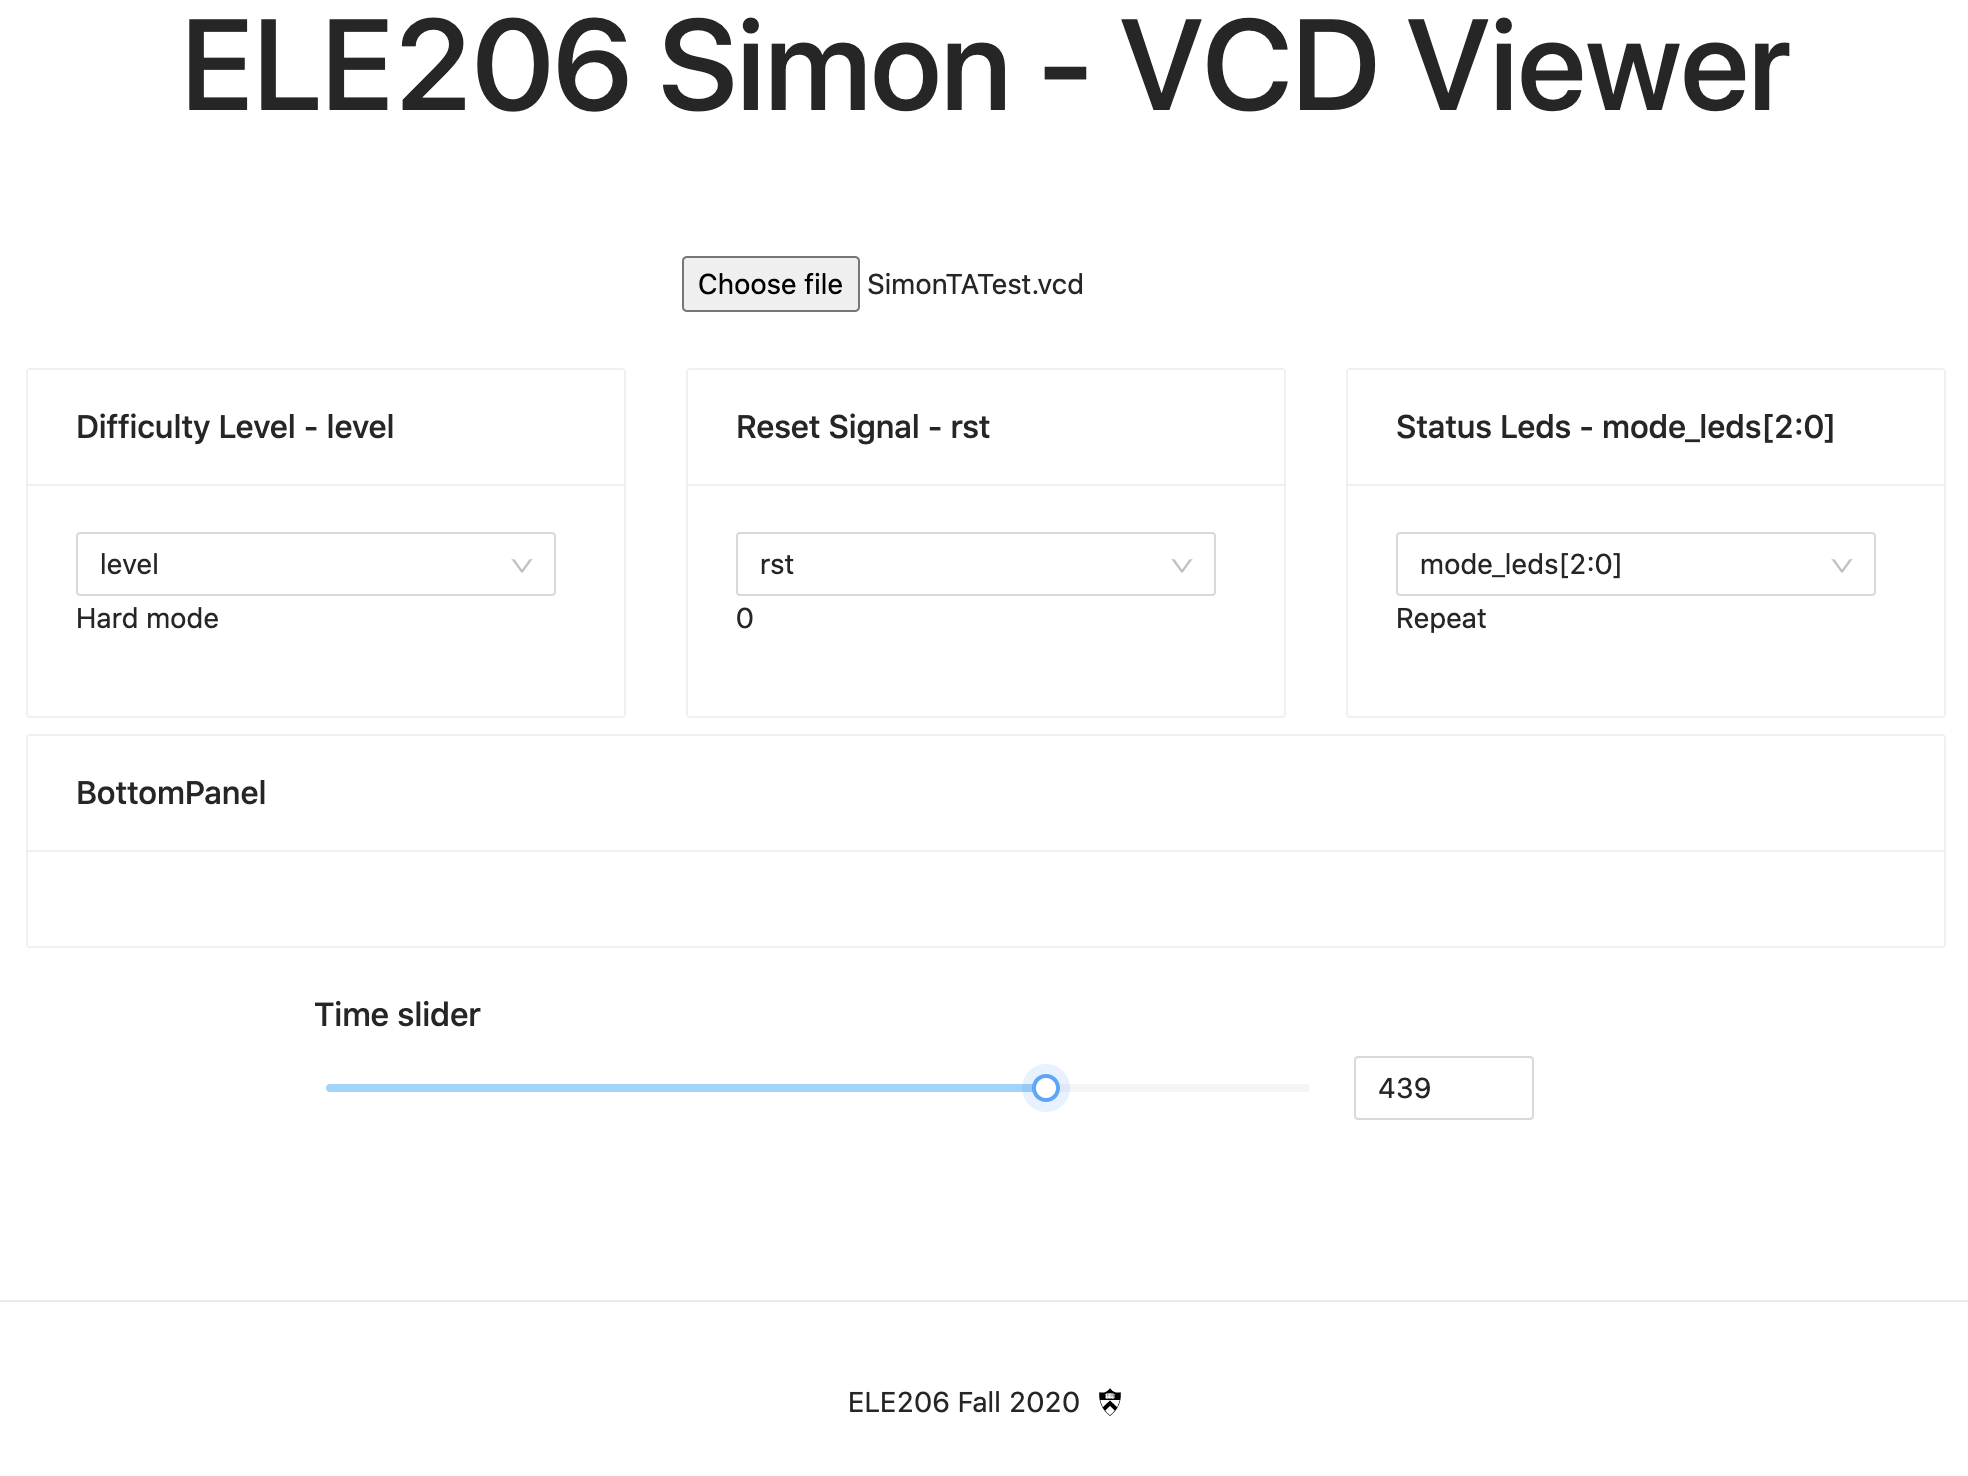
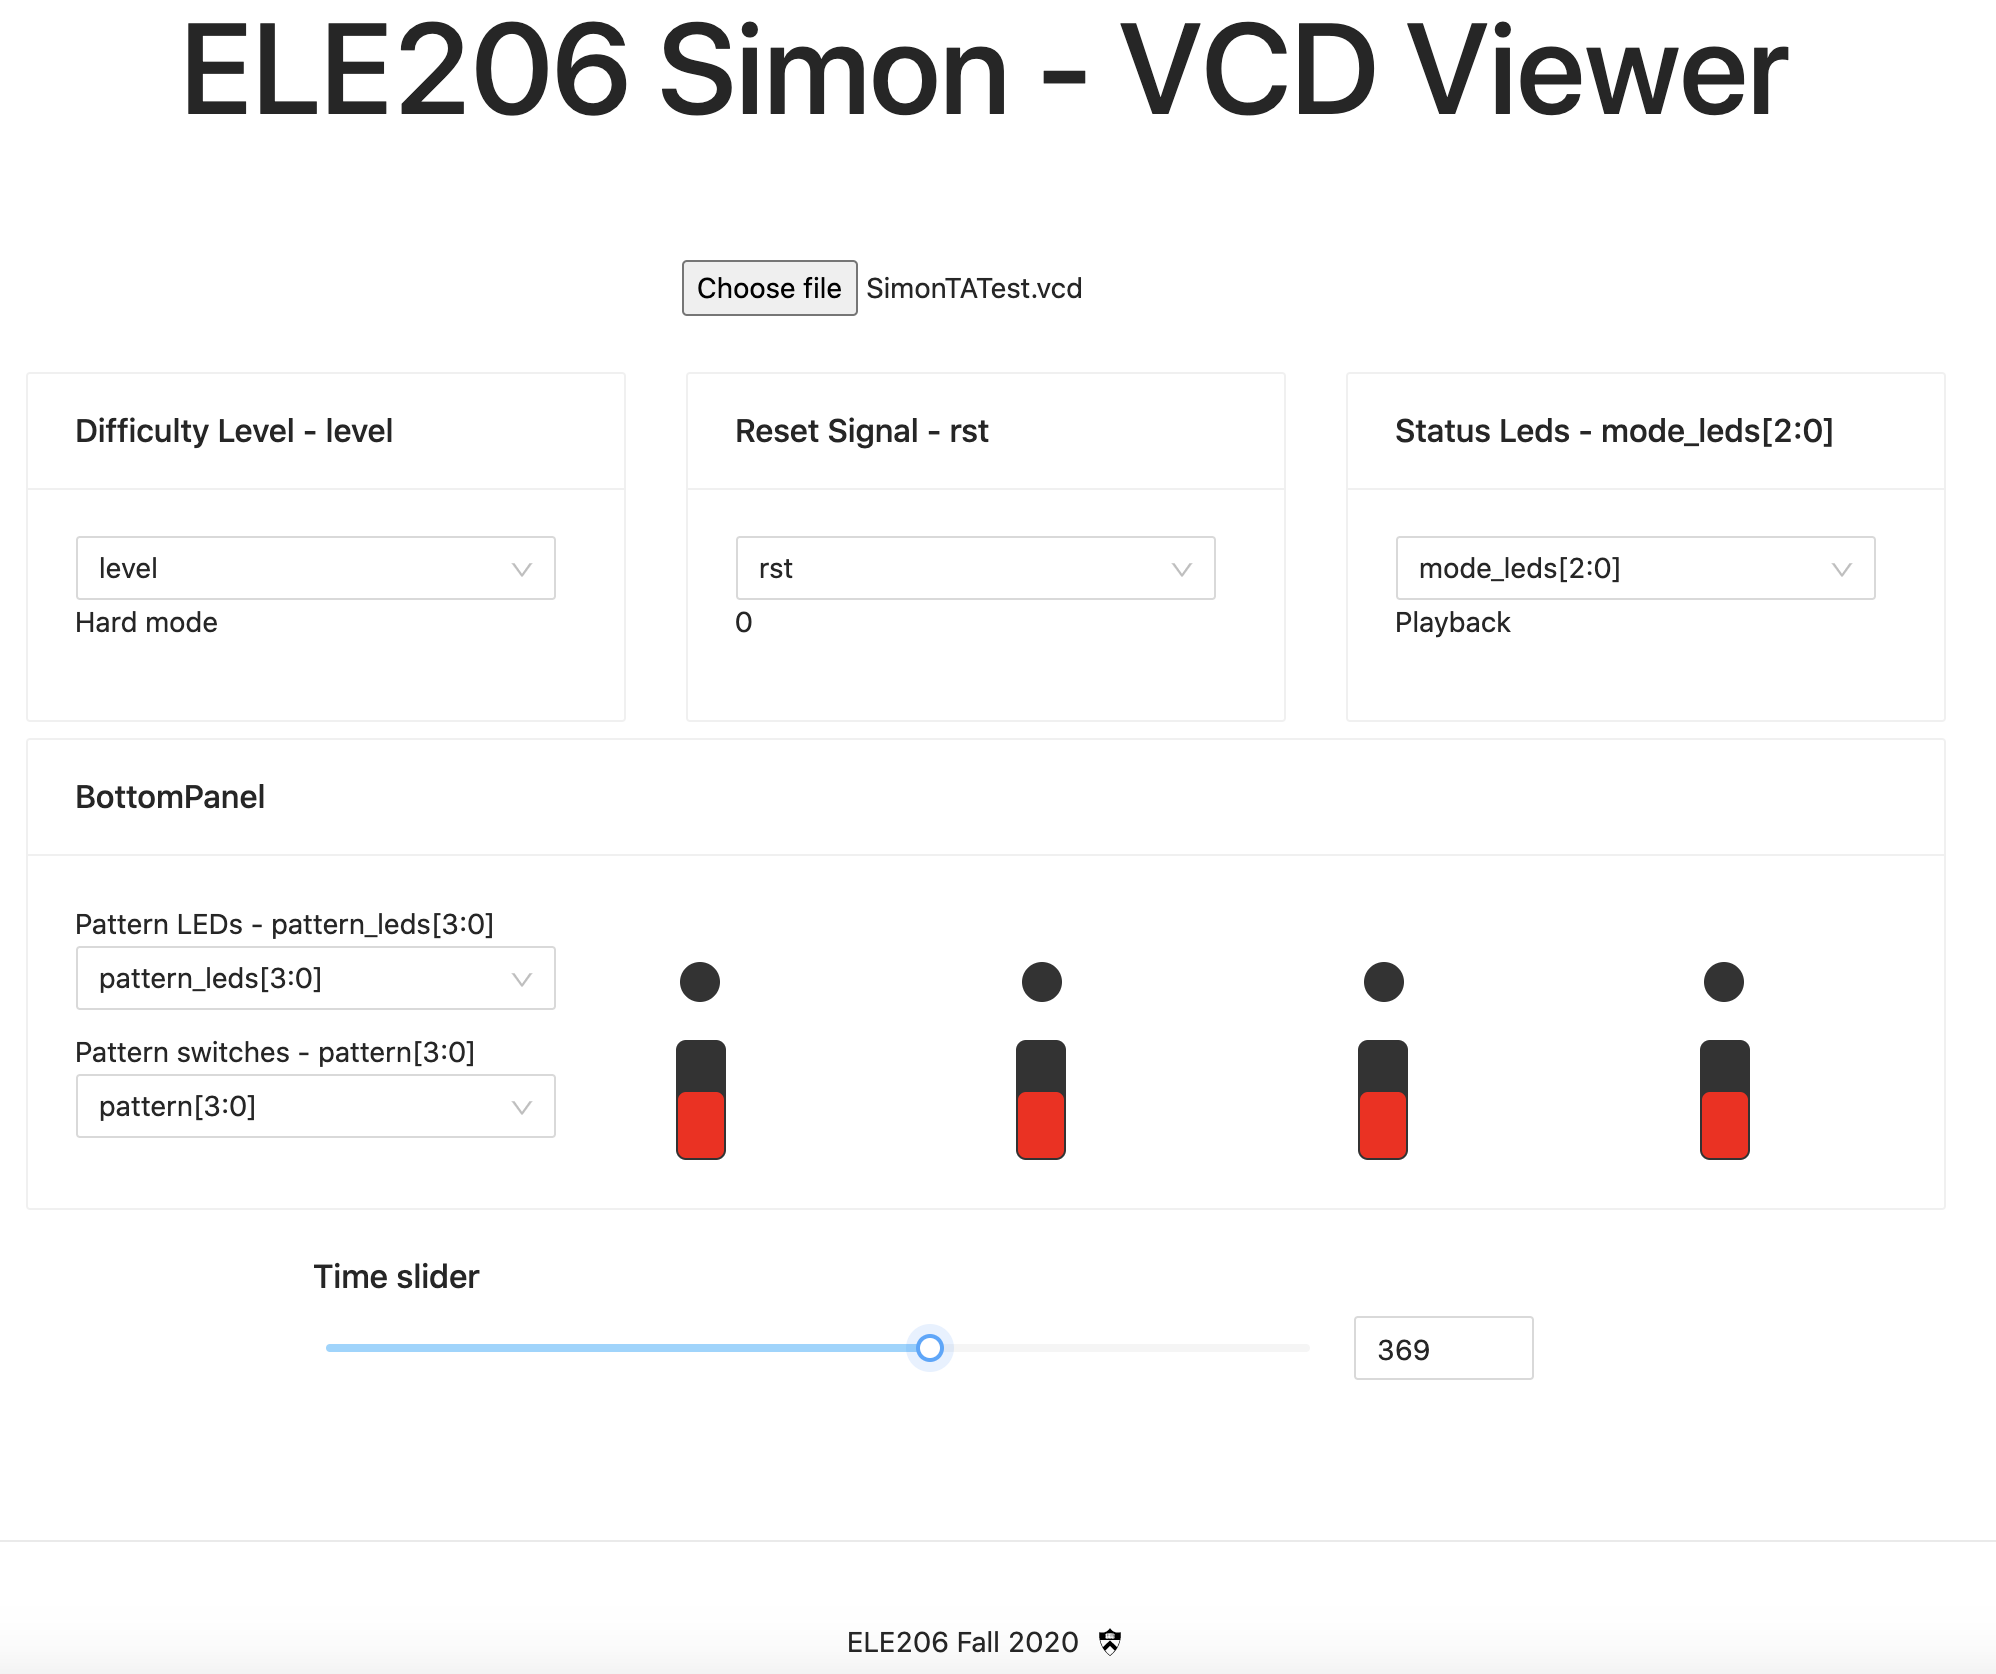
added in bottom panel (no data in yet)

diff --git a/components/bottom_panel/BottomPanel.tsx b/components/bottom_panel/BottomPanel.tsx
@@ -1,20 +1,53 @@
 import React from 'react'
 import styled from 'styled-components'
 import { Card } from 'antd';
+import { Row, Col } from 'antd';
+import PatternLedDot from './PatternLedDot'
+import DropdownSelector from '../DropdownSelector'
+import PatternLedSwitch from './PatternLedSwitch'
 
-const Row = styled.div`
+const RowFourElement = styled.div`
   display: flex;
   flex-direction: row;
-  margin-top: 8px;
-  margin-bottom: 8px;
+  margin-top: 30px;
+  margin-bottom: auto;
   align-content: space-between;
+`
+const RowFourElementBottom = styled(RowFourElement)`
+margin-top: 5px;
 `
 
 const BottomPanel = (props) => {
-    return (
-        <Card title="BottomPanel" style={{ width: '100%' }}>
-        </Card>
-    )
+  const [SignalAvailableIndex, setSignalAvailableIndex] = React.useState(0)
+
+  return (
+    <Card title="BottomPanel" style={{ width: '100%' }}>
+      <Row>
+        <Col span={6}>Pattern LEDs - pattern_leds[3:0]
+        <DropdownSelector vcdObj={props.vcdObj} setSignalAvailableIndex={setSignalAvailableIndex} /></Col>
+        <Col span={18}>
+          <RowFourElement>
+            <PatternLedDot />
+            <PatternLedDot />
+            <PatternLedDot />
+            <PatternLedDot />
+          </RowFourElement>
+        </Col>
+      </Row>
+      <Row style={{ marginTop: 10 }}>
+        <Col span={6}>Pattern switches - pattern[3:0]
+        <DropdownSelector vcdObj={props.vcdObj} setSignalAvailableIndex={setSignalAvailableIndex} /></Col>
+        <Col span={18}>
+          <RowFourElementBottom>
+            <PatternLedSwitch />
+            <PatternLedSwitch />
+            <PatternLedSwitch />
+            <PatternLedSwitch />
+          </RowFourElementBottom>
+        </Col>
+      </Row>
+    </Card>
+  )
 }
 
 export default BottomPanel

diff --git a/components/bottom_panel/PatternLedSwitch.tsx b/components/bottom_panel/PatternLedSwitch.tsx
@@ -1,0 +1,42 @@
+import React from 'react'
+import styled from 'styled-components'
+
+
+const Bar = styled.div`
+    position: relative;
+    padding-top: auto;
+    margin-left: auto;
+    margin-right: auto;
+    width:25px;
+    height:60px;
+    border-radius:5px;
+
+    background-color: #333333;
+`
+const Switcher = styled.div`
+    position: relative;
+    width:23px;
+    height:33px;
+    margin-top: 26px;
+    margin-left: 1px;
+    vertical-align: middle;
+    border-radius: 4px;
+    
+    background-color: #FF0000;
+`
+
+const PatternLedSwitch = (props) => {
+    // const value = '0'.repeat(Math.abs(3 - props.value.length)) + props.value
+    // const red = (value.charAt(2) == '1' ? "#FF0000" : "grey")
+    // const yellow = (value.charAt(1) == '1' ? "#FFFF00" : "grey")
+    // const green = (value.charAt(0) == '1' ? "#00FF00" : "grey")
+
+    return (
+        <Bar>
+            <Switcher>
+            </Switcher>
+        </Bar>
+    )
+}
+
+export default PatternLedSwitch

diff --git a/components/bottom_panel/PatternLedDot.tsx b/components/bottom_panel/PatternLedDot.tsx
@@ -1,0 +1,28 @@
+import React from 'react'
+import styled from 'styled-components'
+
+
+const Dot = styled.div`
+    position: relative;
+    padding-top: auto;
+    margin-left: auto;
+    margin-right: auto;
+    width:20px;
+    height:20px;
+    border-radius:50%;
+    background-color: #333333;
+`
+
+const PatternLedDot = (props) => {
+    // const value = '0'.repeat(Math.abs(3 - props.value.length)) + props.value
+    // const red = (value.charAt(2) == '1' ? "#FF0000" : "grey")
+    // const yellow = (value.charAt(1) == '1' ? "#FFFF00" : "grey")
+    // const green = (value.charAt(0) == '1' ? "#00FF00" : "grey")
+
+    return (
+        <Dot>
+        </Dot>
+    )
+}
+
+export default PatternLedDot
